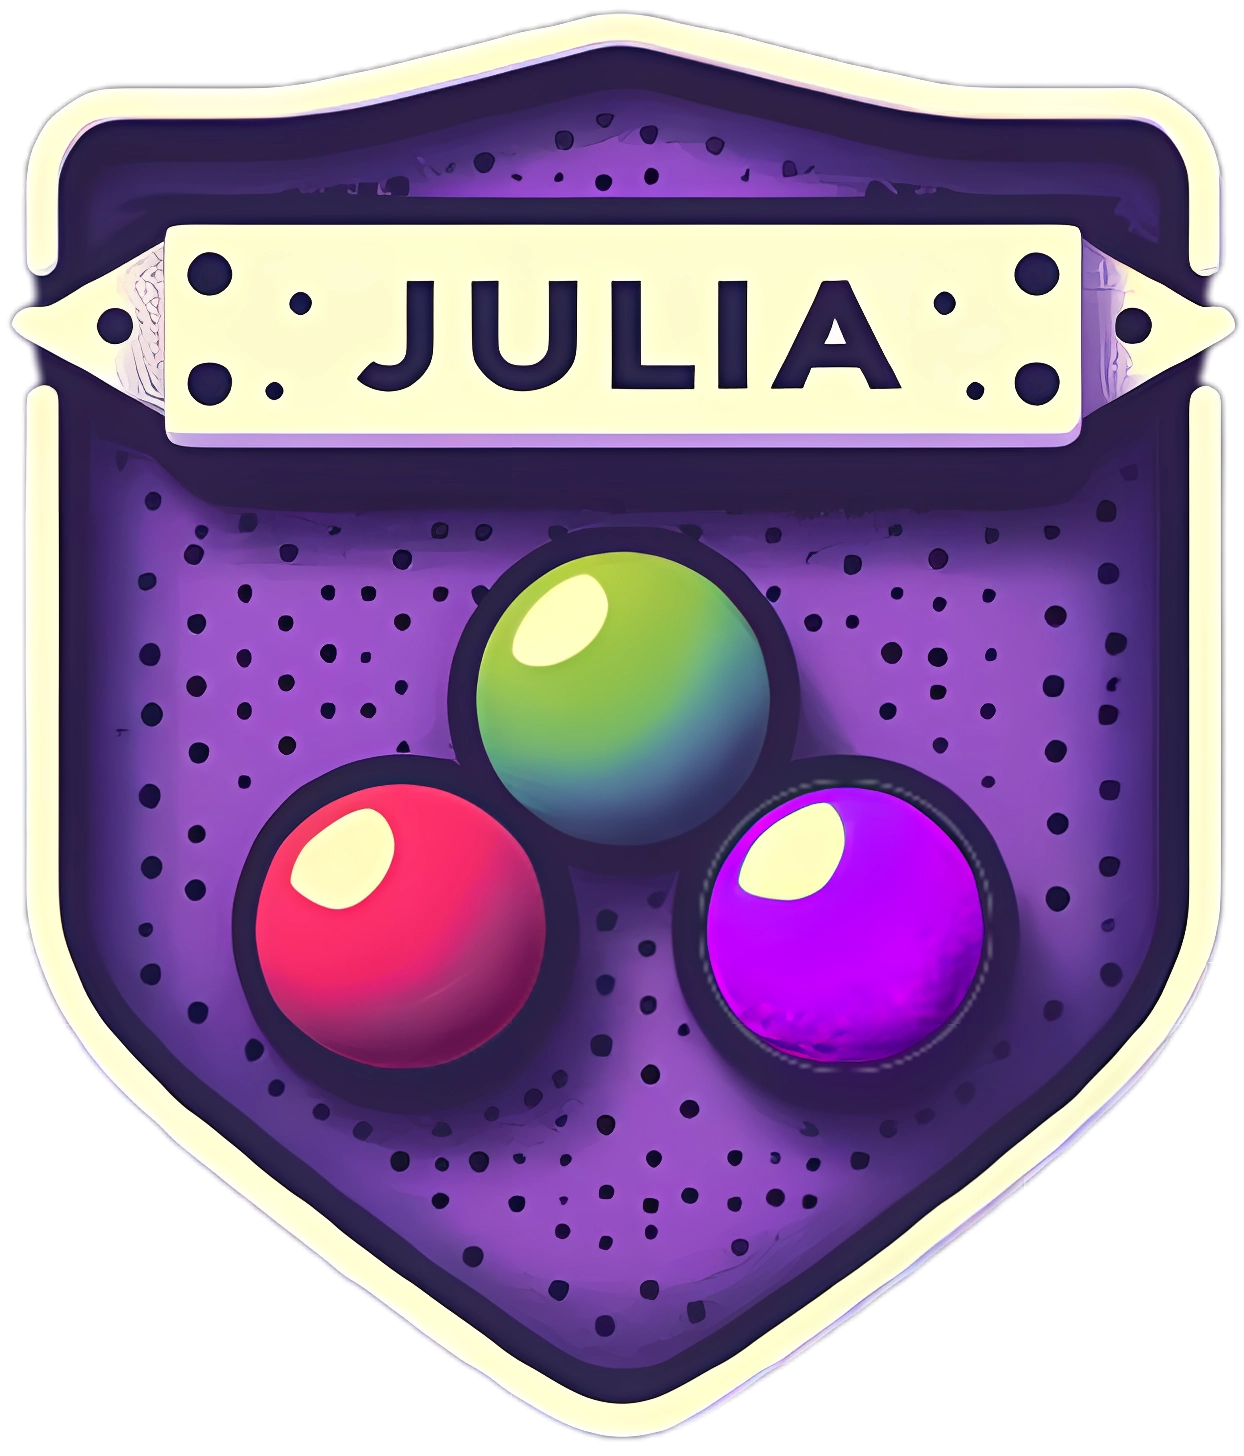
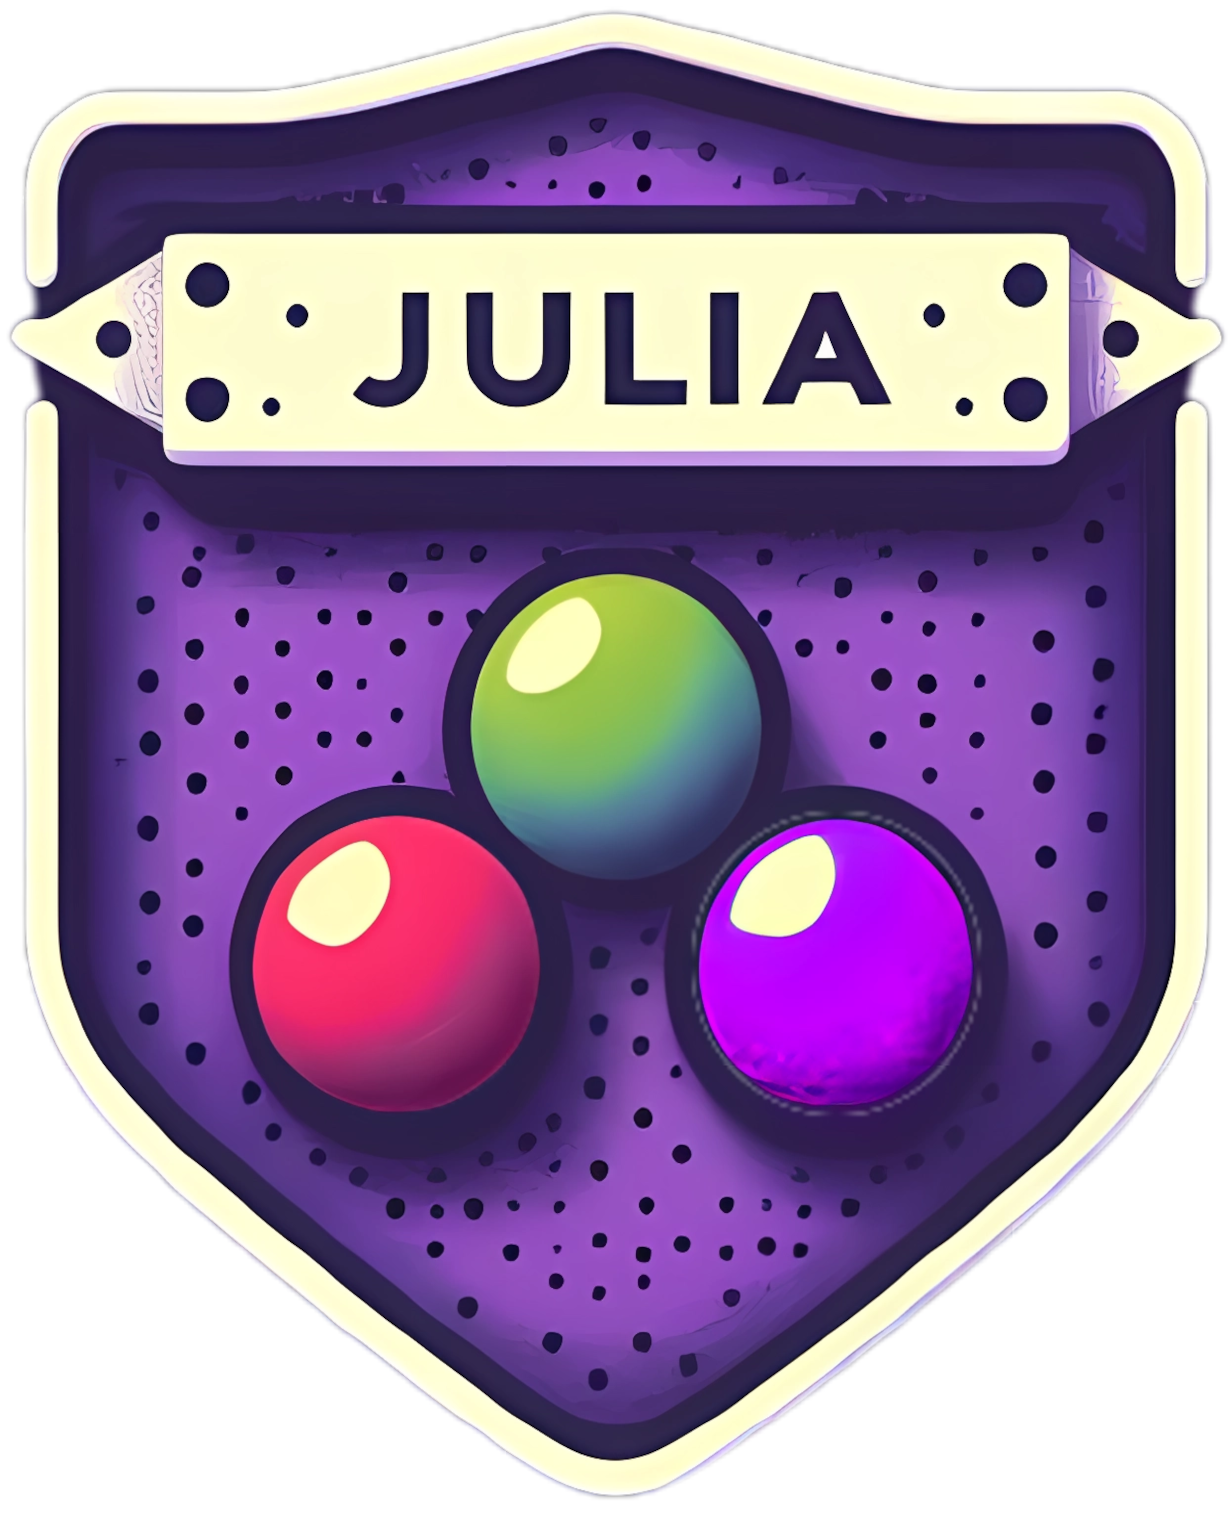
julia rescale

diff --git a/README.md b/README.md
@@ -1,5 +1,5 @@
 <p float="left" align="center">
   <img src="img/rust.png" width="100" alt="Rust"/>
   <img src="img/python.png" width="100" alt="Python"/> 
-  <img src="img/julia.png" width="104" alt="Julia"/>
+  <img src="img/julia.png" width="100" alt="Julia"/>
 </p>
